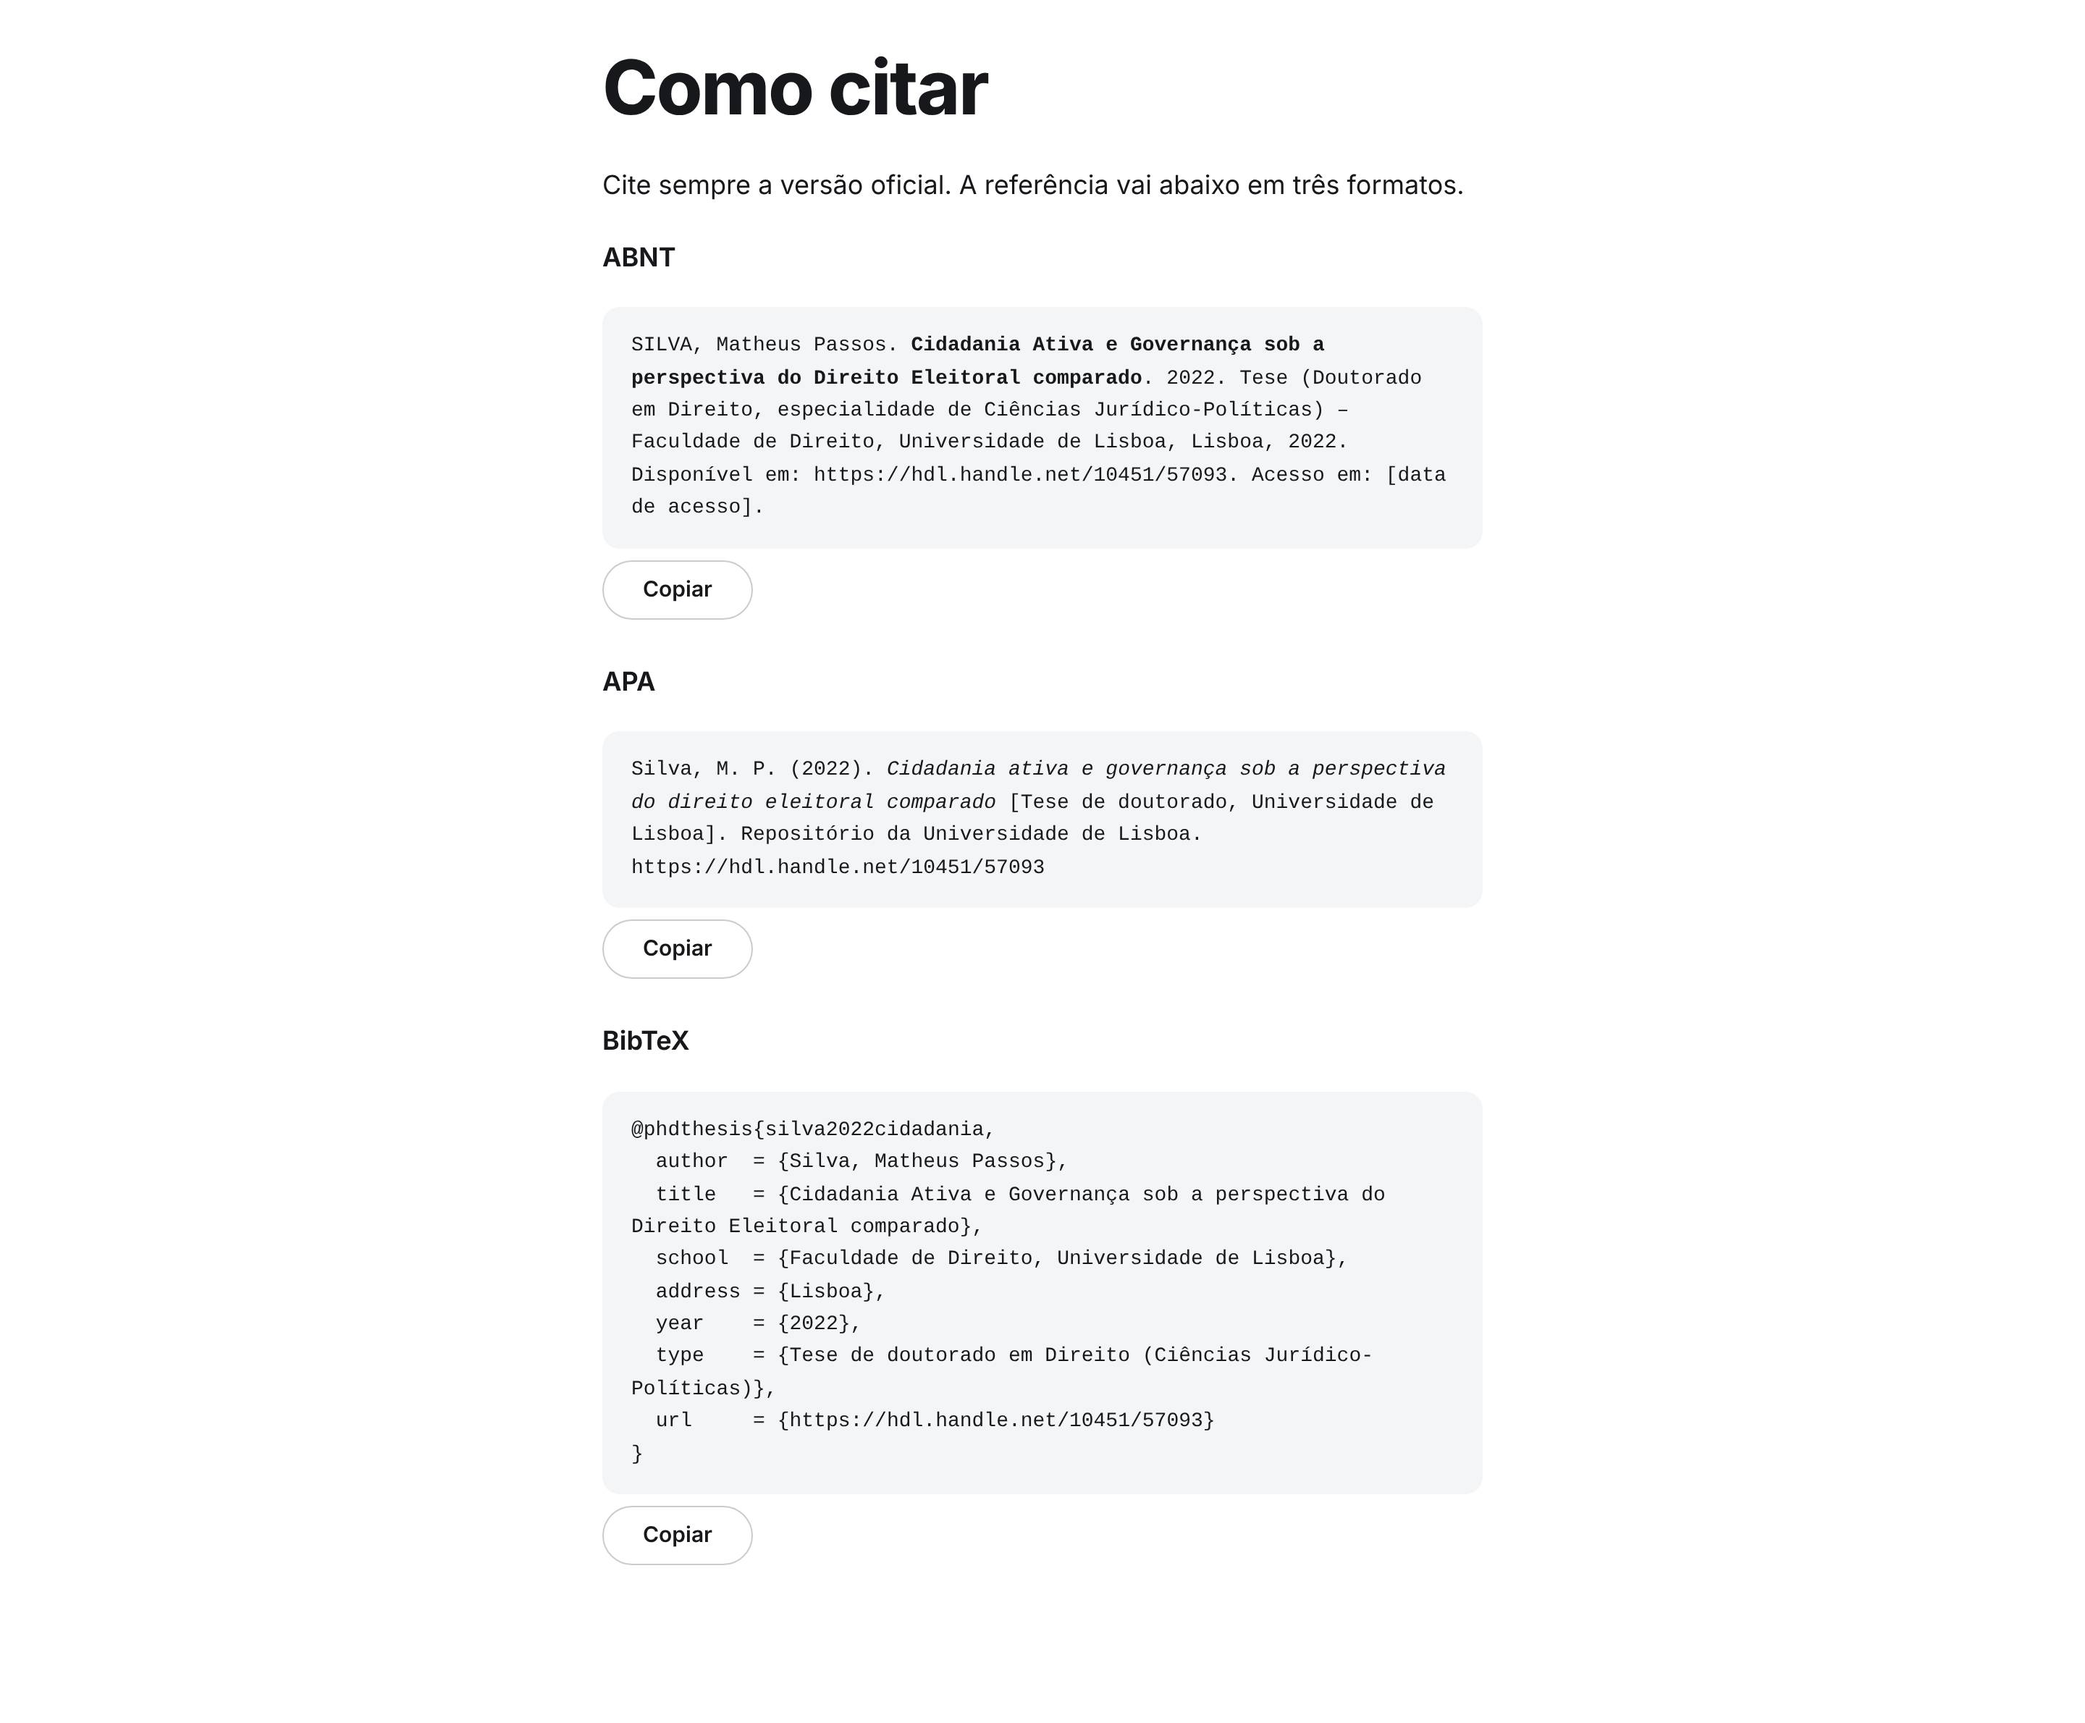
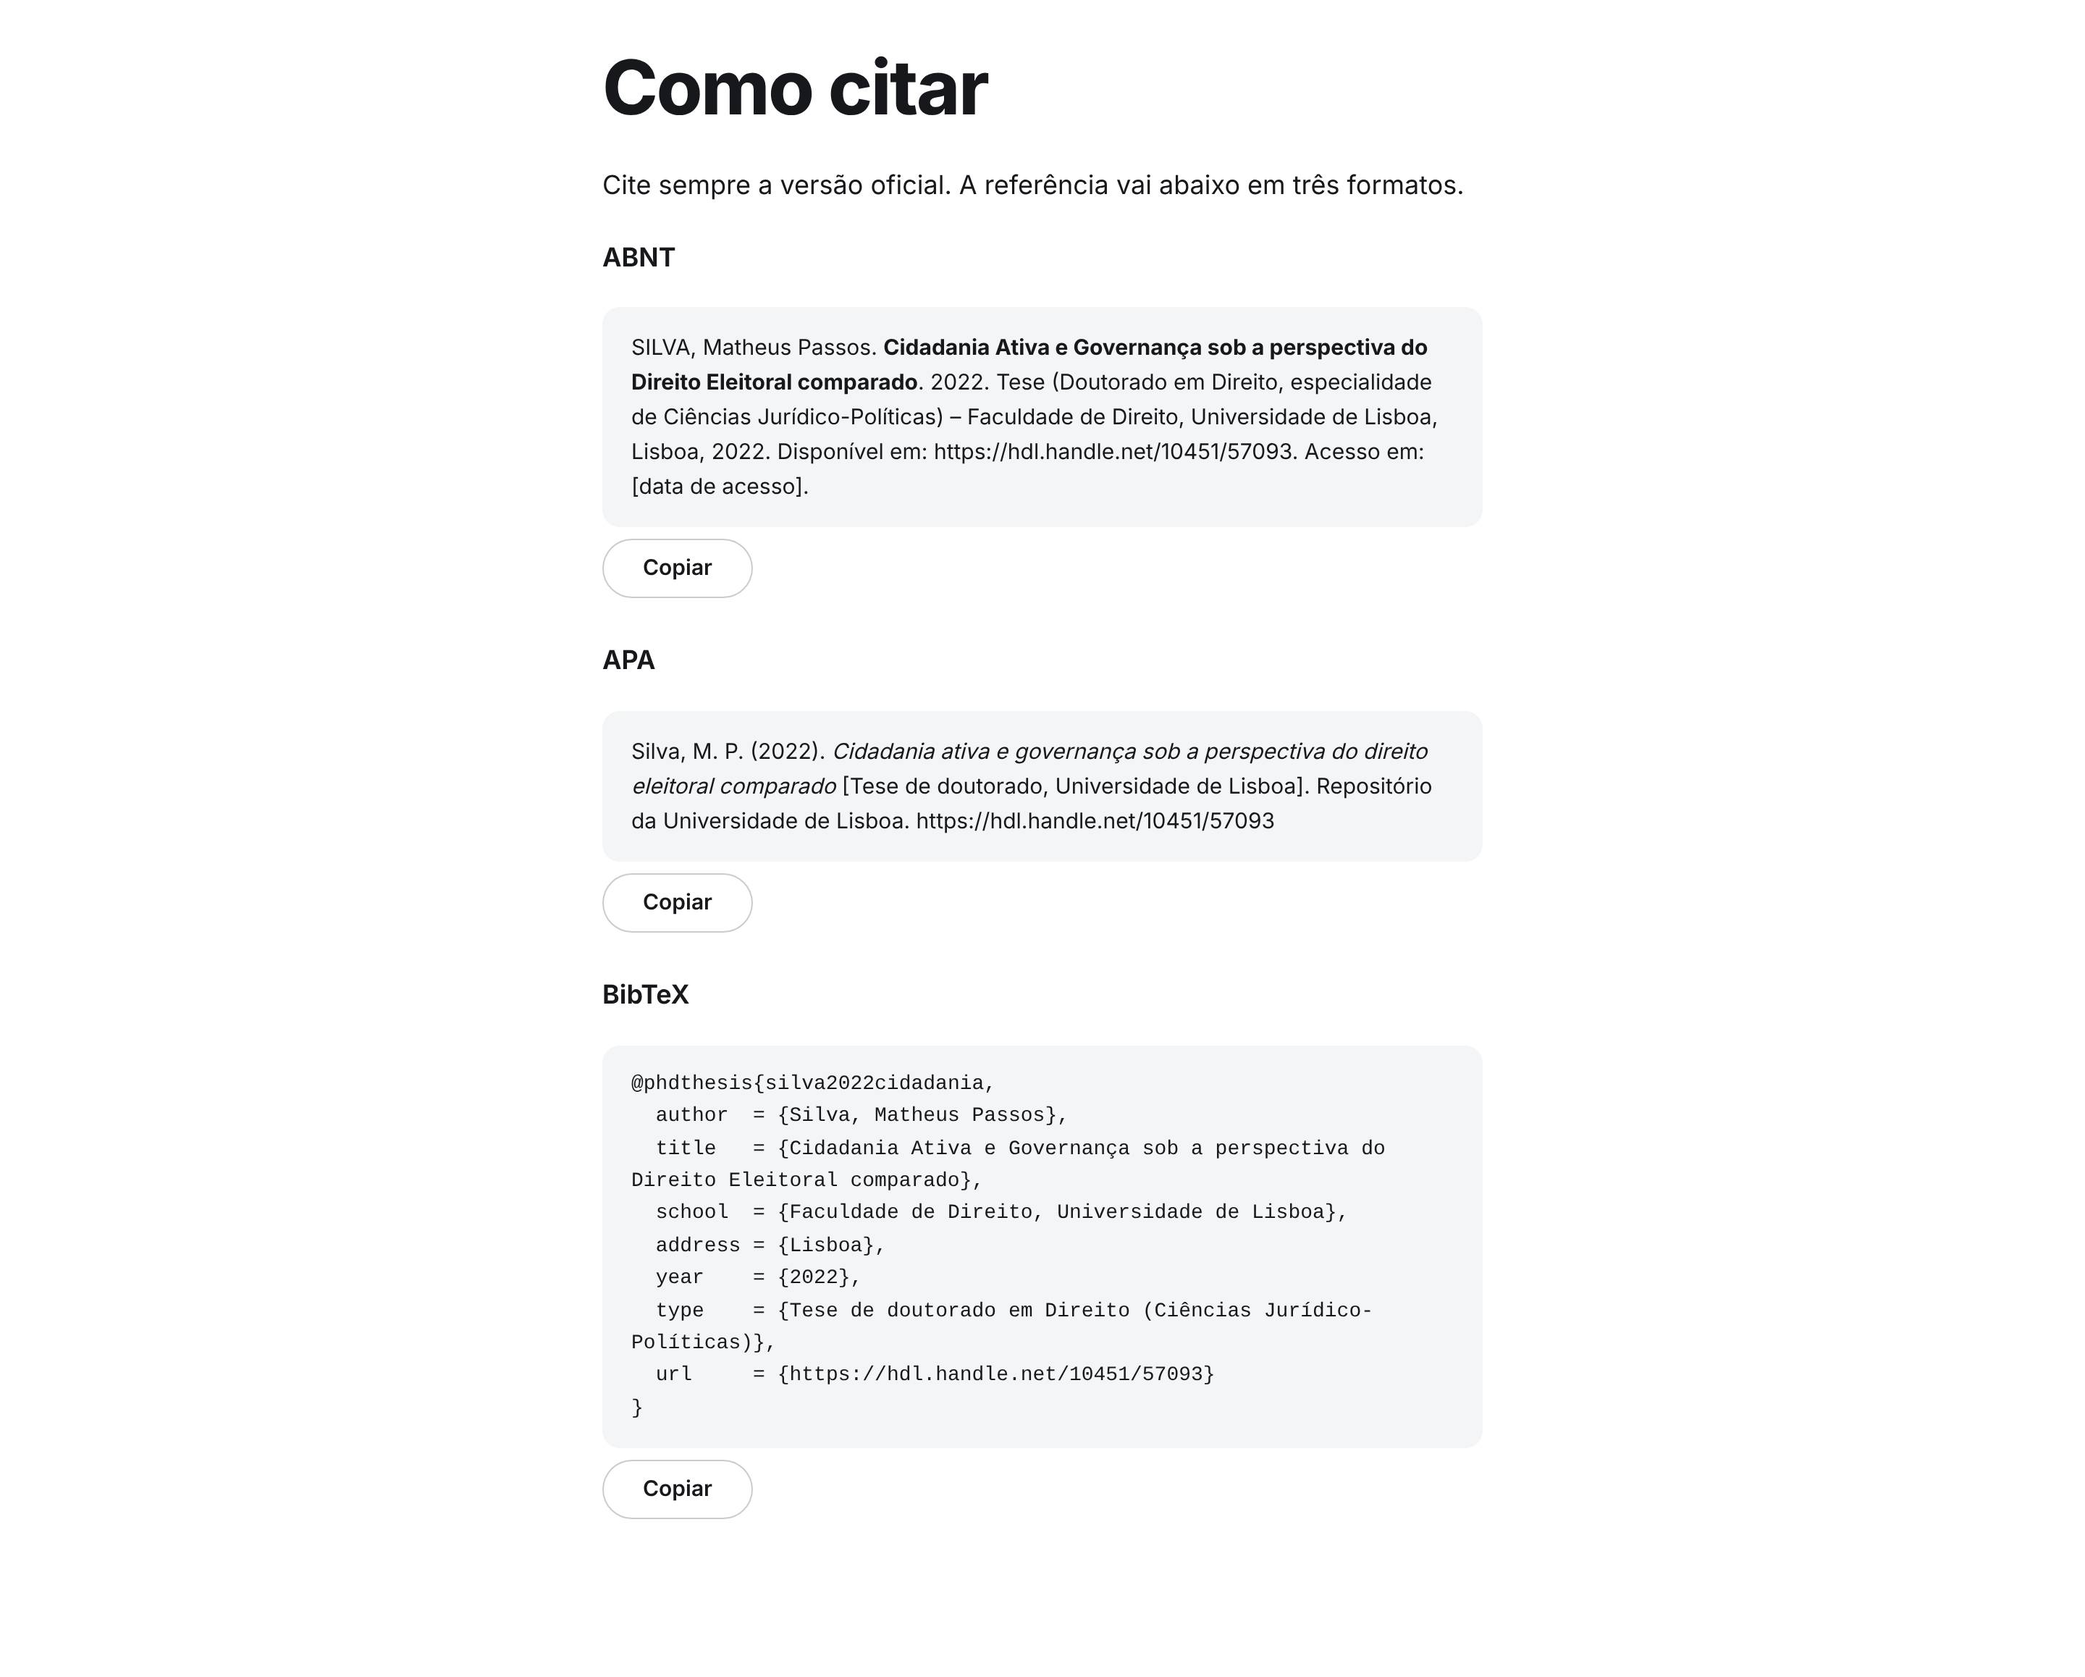
Capturas novas do B6 da Sobre (D69) e resumo do Lighthouse das sete páginas
Claude-Session: https://claude.ai/code/session_01DNveZyfGU3MpHvSNcEF5ja

diff --git a/docs/capturas/fase-4/lighthouse/resumo.md b/docs/capturas/fase-4/lighthouse/resumo.md
@@ -4,17 +4,17 @@ Gerado por `npm run lighthouse` sobre o build local. Mínimo exigido: 90 em toda
 
 | Página | Modo | Performance | Accessibility | Best Practices | SEO | Agentic Browsing | LCP | CLS | TBT |
 |---|---|---|---|---|---|---|---|---|---|
-| home | celular, pior de 5 (desempenho: 100, 100, 100, 100, 99) | 99 | 100 | 100 | 100 | 100 | 1.9 s | 0 | 100 ms |
+| home | celular, pior de 5 (desempenho: 99, 100, 100, 100, 100) | 99 | 100 | 100 | 100 | 100 | 1.9 s | 0 | 70 ms |
 | home | desktop | 100 | 100 | 100 | 100 | 100 | 0.2 s | 0 | 0 ms |
 | capitulo-1 | celular | 100 | 100 | 100 | 100 | 100 | 0.9 s | 0 | 10 ms |
 | capitulo-1 | desktop | 100 | 100 | 100 | 100 | 100 | 0.2 s | 0 | 0 ms |
 | capitulo-2 | celular | 100 | 100 | 100 | 100 | 100 | 0.9 s | 0 | 0 ms |
 | capitulo-2 | desktop | 100 | 100 | 100 | 100 | 100 | 0.2 s | 0 | 0 ms |
-| capitulo-3 | celular | 100 | 100 | 100 | 100 | 100 | 1.5 s | 0 | 0 ms |
+| capitulo-3 | celular | 100 | 100 | 100 | 100 | 100 | 0.9 s | 0 | 0 ms |
 | capitulo-3 | desktop | 100 | 100 | 100 | 100 | 100 | 0.2 s | 0 | 0 ms |
-| capitulo-4 | celular | 100 | 100 | 100 | 100 | 100 | 0.9 s | 0 | 20 ms |
-| capitulo-4 | desktop | 100 | 100 | 100 | 100 | 100 | 0.2 s | 0 | 0 ms |
-| capitulo-5 | celular | 100 | 100 | 100 | 100 | 100 | 0.9 s | 0 | 20 ms |
-| capitulo-5 | desktop | 100 | 100 | 100 | 100 | 100 | 0.2 s | 0 | 0 ms |
+| capitulo-4 | celular | 100 | 100 | 100 | 100 | 100 | 0.9 s | 0 | 80 ms |
+| capitulo-4 | desktop | 100 | 100 | 100 | 100 | 100 | 0.3 s | 0 | 0 ms |
+| capitulo-5 | celular | 100 | 100 | 100 | 100 | 100 | 0.9 s | 0 | 0 ms |
+| capitulo-5 | desktop | 100 | 100 | 100 | 100 | 100 | 0.3 s | 0 | 0 ms |
 | sobre | celular | 100 | 100 | 100 | 100 | 100 | 0.8 s | 0 | 0 ms |
 | sobre | desktop | 100 | 100 | 100 | 100 | 100 | 0.2 s | 0 | 0 ms |
